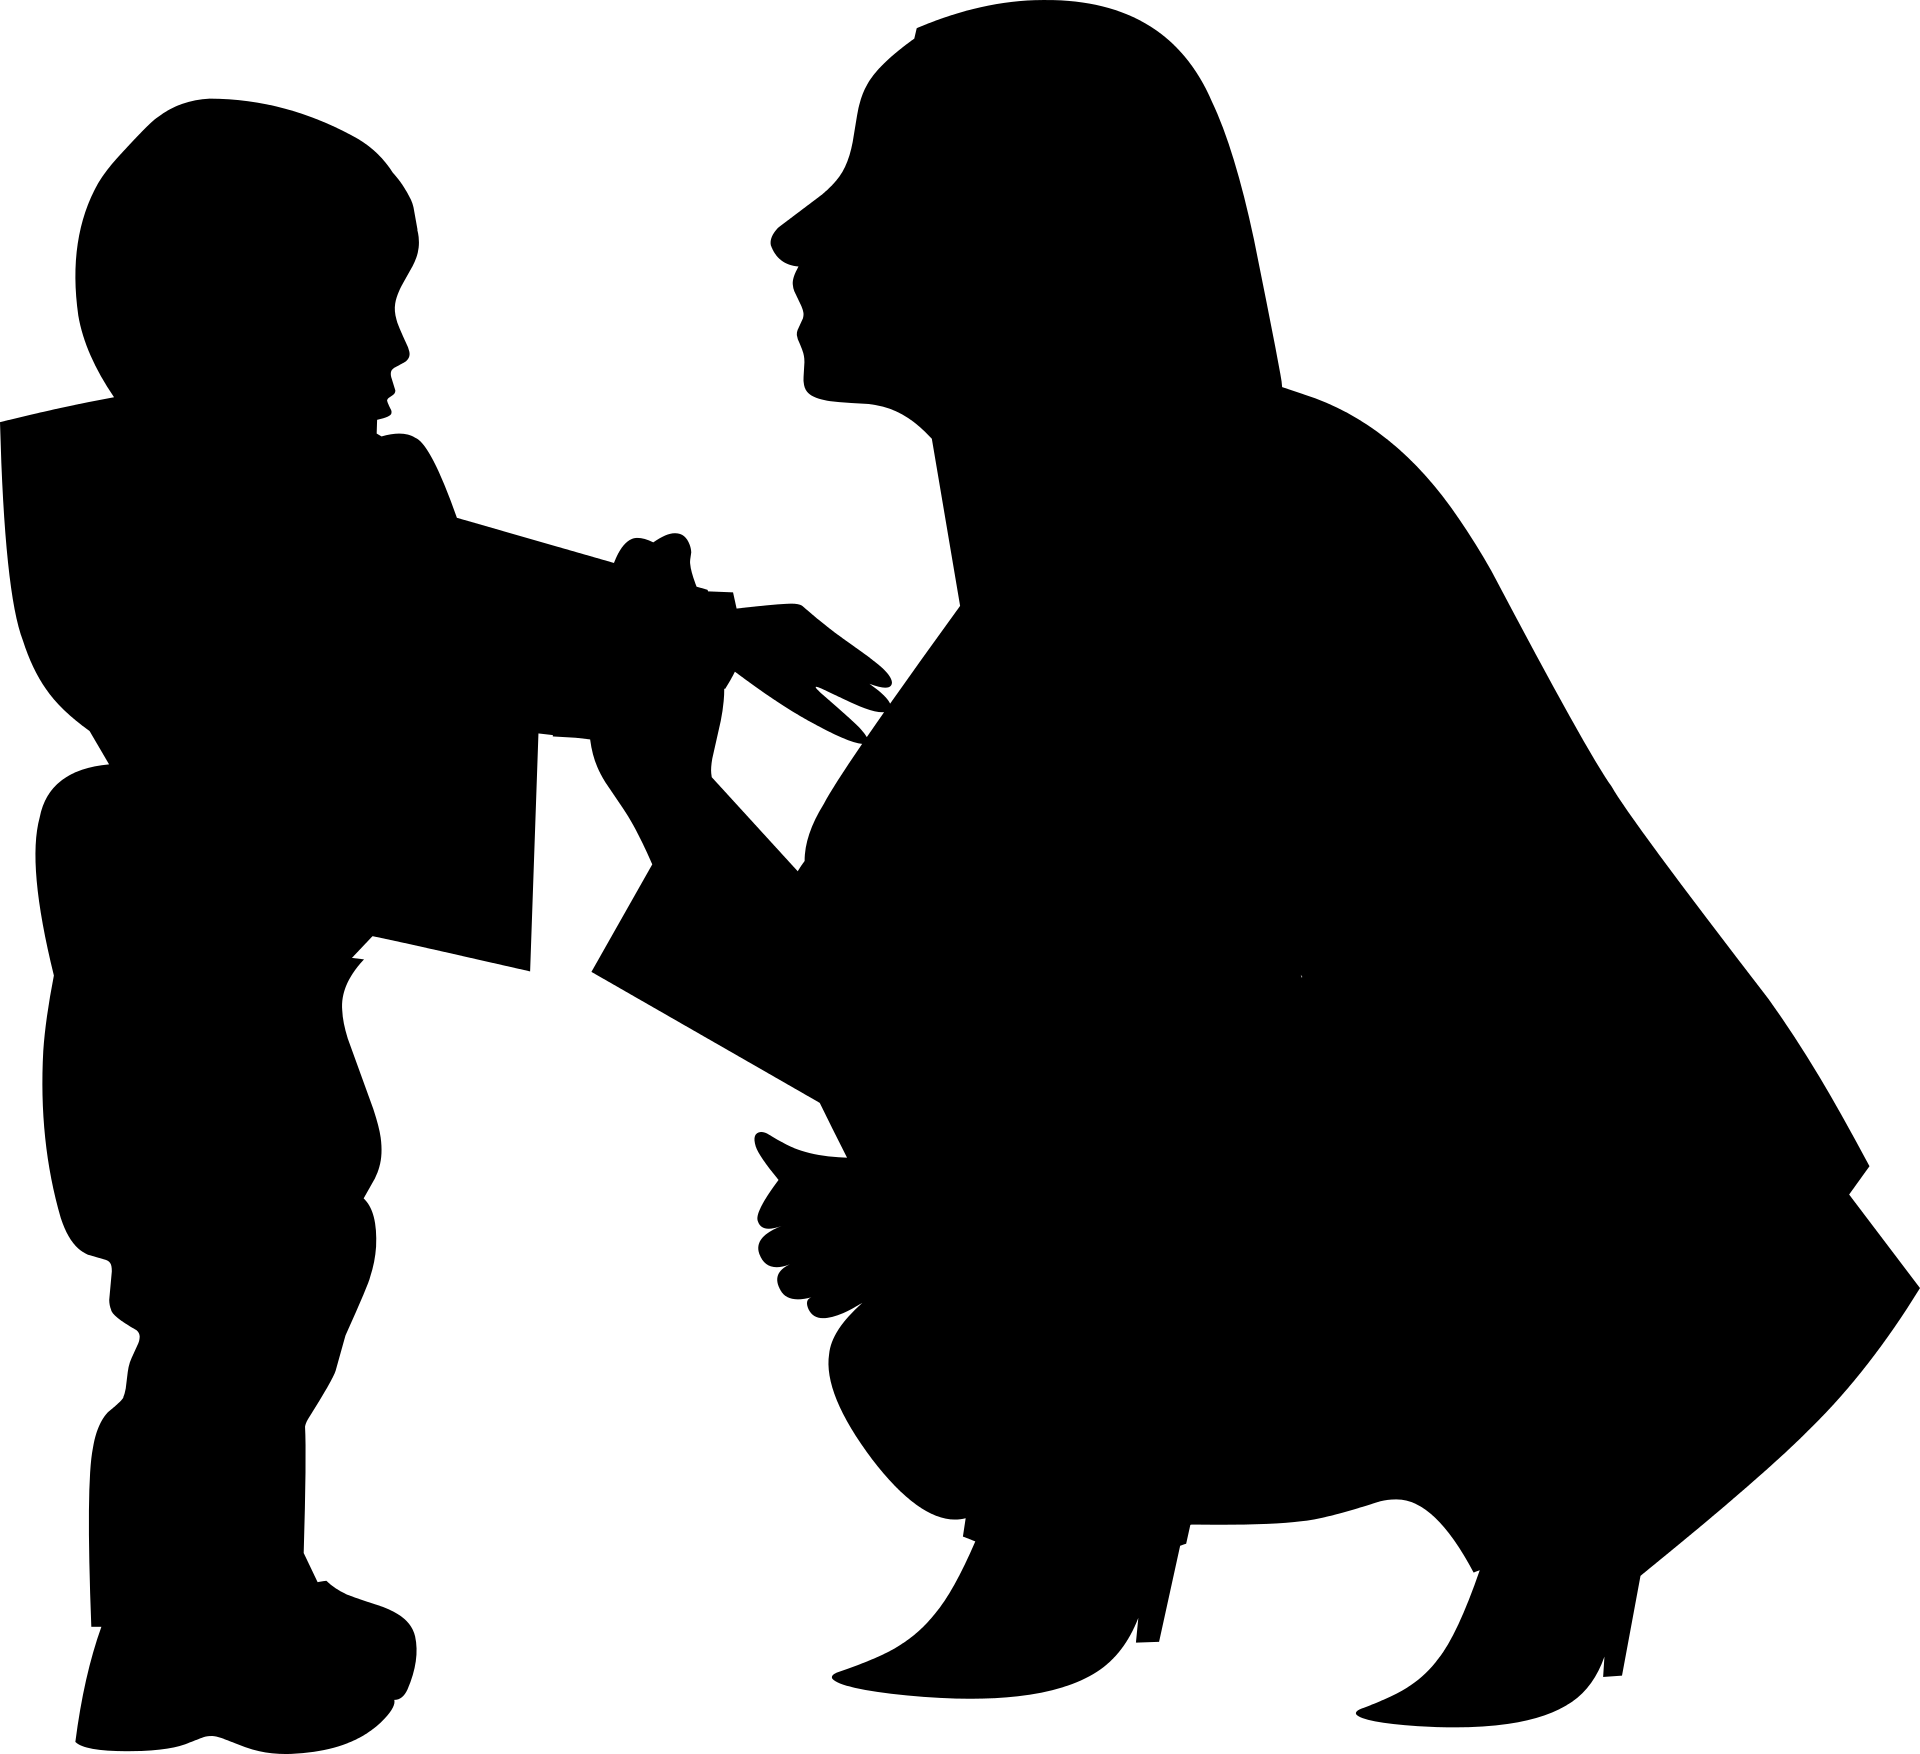
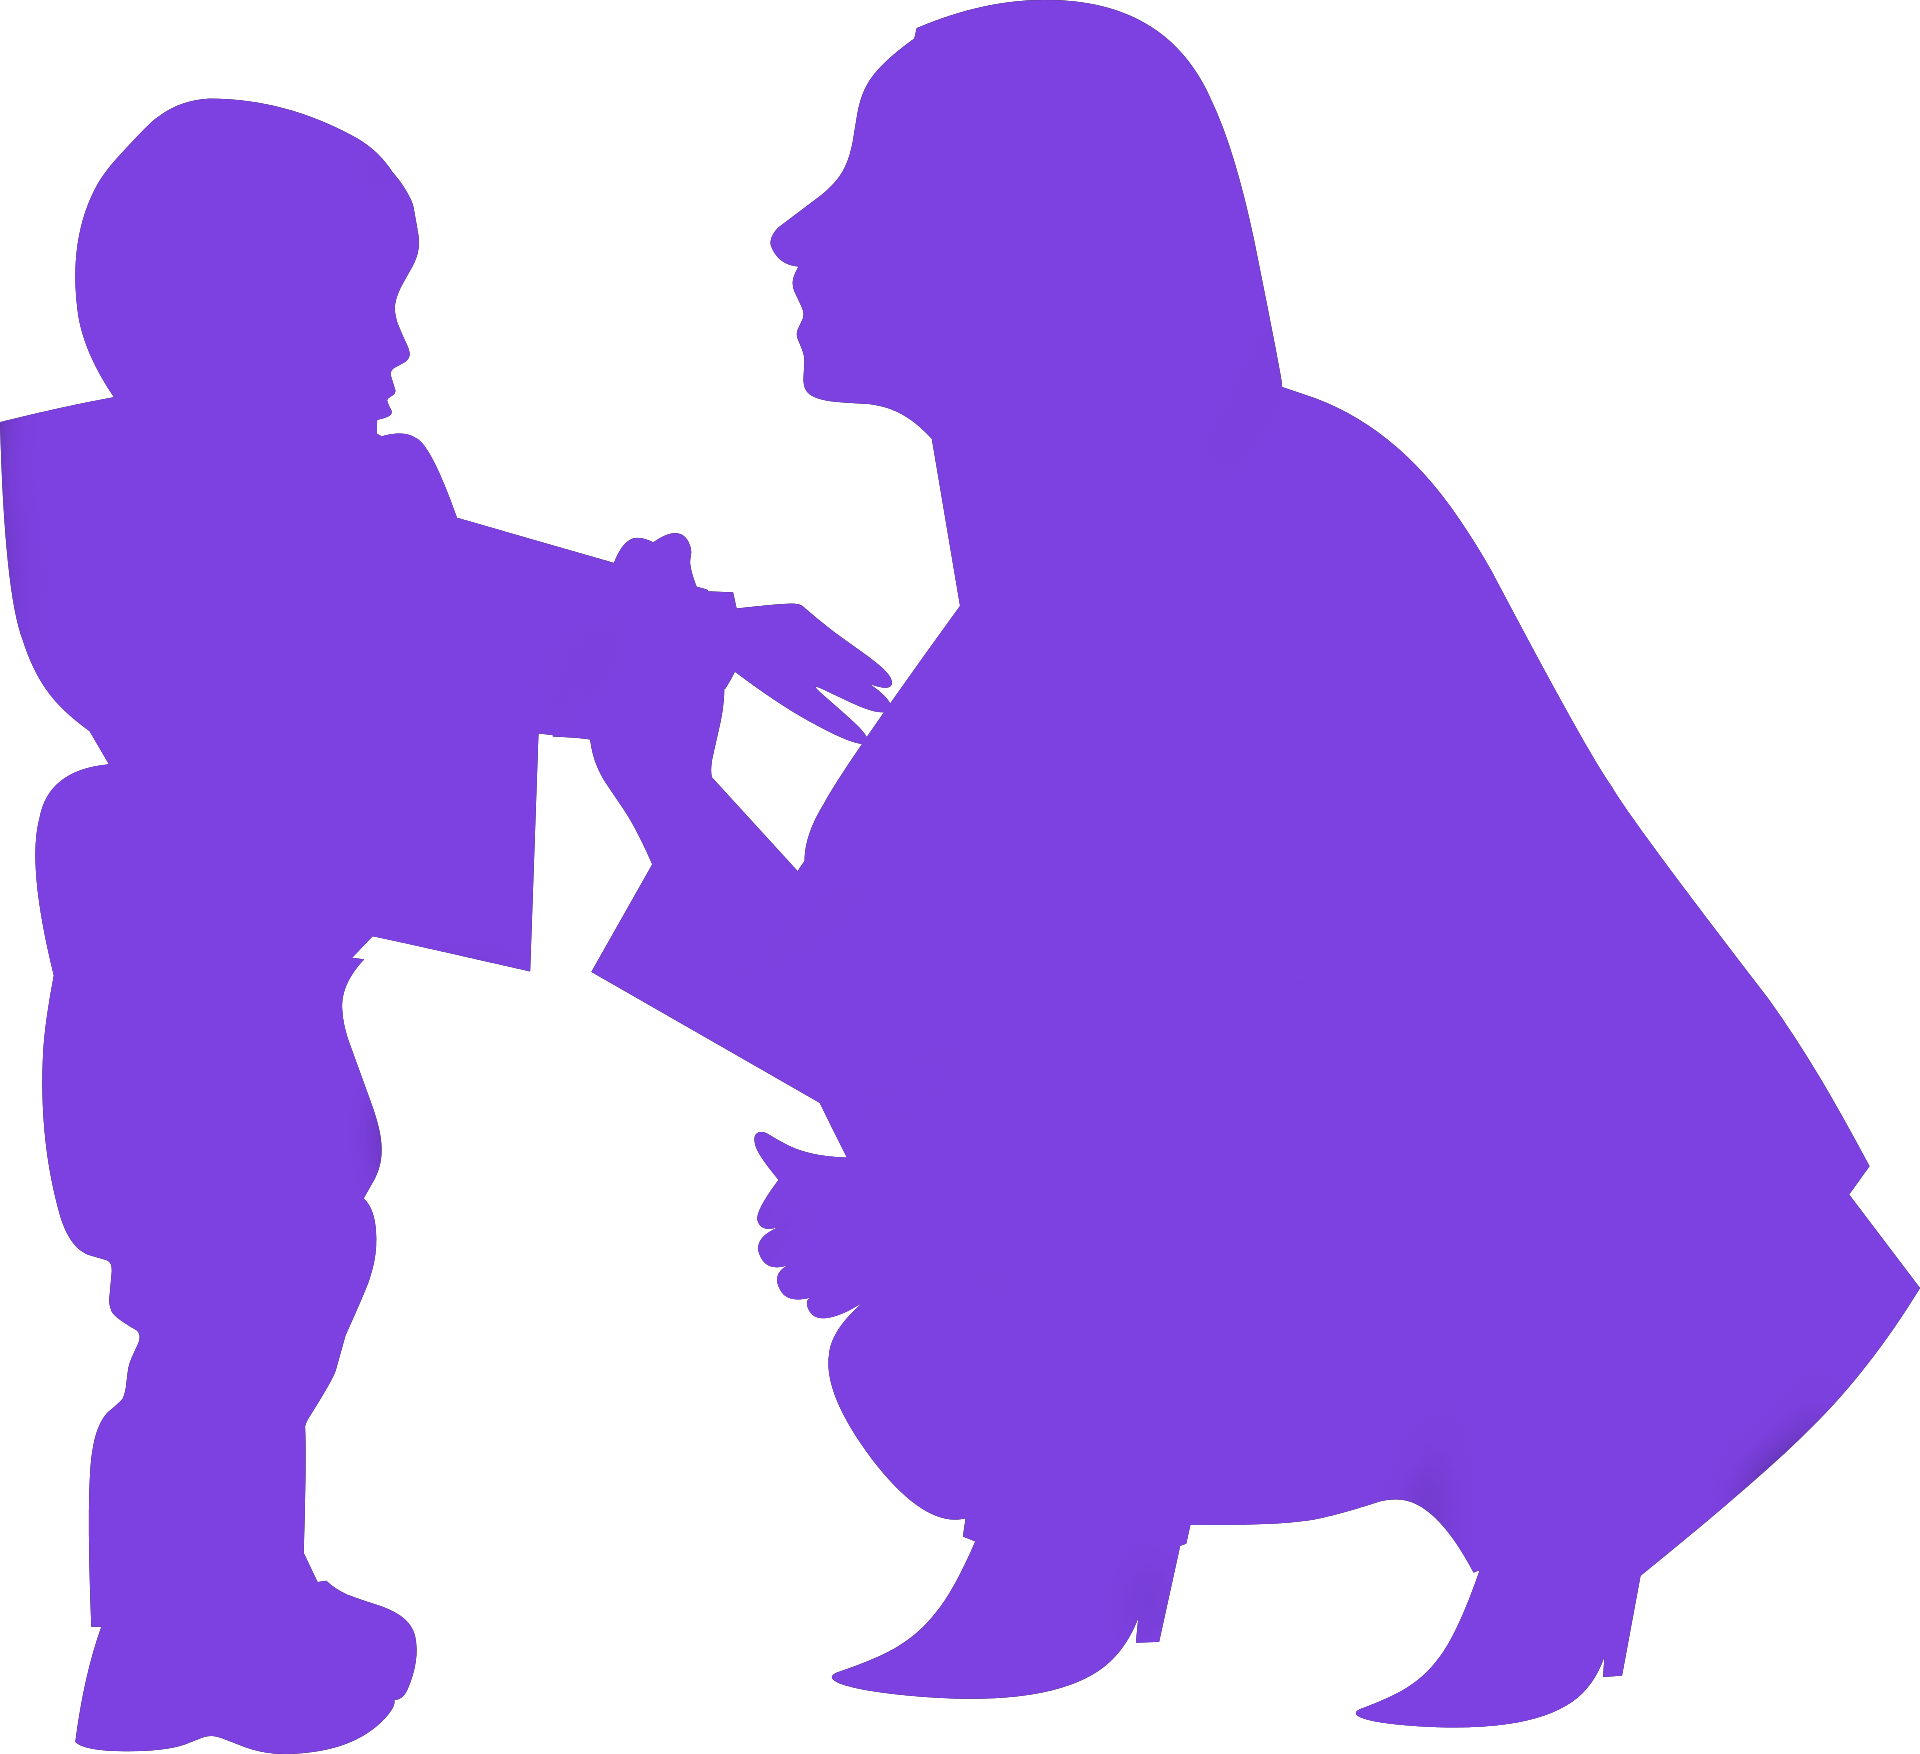
reparing the ressposivness of theraphy section

diff --git a/index.html b/index.html
@@ -154,11 +154,11 @@
 
         <!-- Therapy section  -->
         <section class="therapy" id="therapy">
-            <div class="therapy-container">
+            <div class="therapy-container container">
                 <h1>Terapie, które prowadzimy</h1>
                 <div class="therapy-box">
                     <div class="therapy-img">
-                        <img src="/img/mother-3500136.png" alt="">
+                        <img src="/img/mother-3500136-violet.png" alt="">
                     </div>
                     <div class="therapy-text">
                         <div class="therapy-title">
@@ -173,7 +173,7 @@
                 </div>
                 <div class="therapy-box">
                     <div class="therapy-img">
-                        <img src="/img/family-3493243.png" alt="">
+                        <img src="/img/family-3493243-violet.png" alt="">
                     </div>
                     <div class="therapy-text">
                         <div class="therapy-title">
@@ -188,7 +188,7 @@
                 </div>
                 <div class="therapy-box">
                     <div class="therapy-img">
-                        <img src="/img/silhouette-3299358.png" alt="">
+                        <img src="/img/silhouette-3299358-violet.png" alt="">
                     </div>
                     <div class="therapy-text">
                         <div class="therapy-title">
@@ -203,7 +203,7 @@
                 </div>
                 <div class="therapy-box">
                     <div class="therapy-img">
-                        <img src="/img/silhouette-3299372.png" alt="">
+                        <img src="/img/silhouette-3299372-violet.png" alt="">
                     </div>
                     <div class="therapy-text">
                         <div class="therapy-title">

diff --git a/css/style.css b/css/style.css
@@ -13,7 +13,7 @@
 
 body {
   position: relative;
-  background-color: #ddd;
+  background-color: #FFF;
   font-family: "Montserrat", sans-serif;
 }
 
@@ -195,11 +195,17 @@ header .hero-bg .hero-img .hero-container .hero-description {
   display: -webkit-box;
   display: -ms-flexbox;
   display: flex;
-  -webkit-box-orient: horizontal;
+  -webkit-box-orient: vertical;
   -webkit-box-direction: normal;
-      -ms-flex-direction: row;
-          flex-direction: row;
-  padding: 30px;
+      -ms-flex-direction: column;
+          flex-direction: column;
+  margin: 25px 0px;
+  -webkit-box-pack: center;
+      -ms-flex-pack: center;
+          justify-content: center;
+  -webkit-box-align: center;
+      -ms-flex-align: center;
+          align-items: center;
   background-color: #FFF;
 }
 
@@ -211,7 +217,6 @@ header .hero-bg .hero-img .hero-container .hero-description {
 .therapy .therapy-container .therapy-box .therapy-text {
   padding: 20px;
   border-radius: 30px;
-  margin-left: 20px;
   background-color: #78e6f2;
   border: 1px solid #7d41e1;
 }
@@ -269,6 +274,16 @@ header .hero-bg .hero-img .hero-container .hero-description {
   }
   .card-group .card {
     width: 300px;
+  }
+  .therapy-container .therapy-box {
+    padding: 30px;
+    -webkit-box-orient: horizontal !important;
+    -webkit-box-direction: normal !important;
+        -ms-flex-direction: row !important;
+            flex-direction: row !important;
+  }
+  .therapy-container .therapy-text {
+    margin-left: 20px;
   }
 }
 

diff --git a/sass/style.scss b/sass/style.scss
@@ -11,7 +11,7 @@
 }
 body {
 	position: relative;
-	background-color: #ddd;
+	background-color: $white;
 	font-family: "Montserrat", sans-serif;
 }
 
@@ -161,8 +161,10 @@ header {
 	.therapy-container {
 		.therapy-box {
 			display: flex;
-			flex-direction: row;
-			padding: 30px;
+			flex-direction: column;
+			margin: 25px 0px;
+			justify-content: center;
+			align-items: center;
 			background-color: $white;
 			.therapy-img {
 				img {
@@ -173,9 +175,8 @@ header {
 			.therapy-text {
 				padding: 20px;
 				border-radius: 30px;
-				margin-left: 20px;
 				background-color: $second-main-color;
-				border: 1px solid $main-color
+				border: 1px solid $main-color;
 			}
 		}
 	}
@@ -245,6 +246,15 @@ header {
 	.card-group {
 		.card {
 			width: 300px;
+		}
+	}
+	.therapy-container {
+		.therapy-box {
+			padding: 30px;
+			flex-direction: row !important;
+		}
+		.therapy-text{
+			margin-left: 20px;
 		}
 	}
 }
